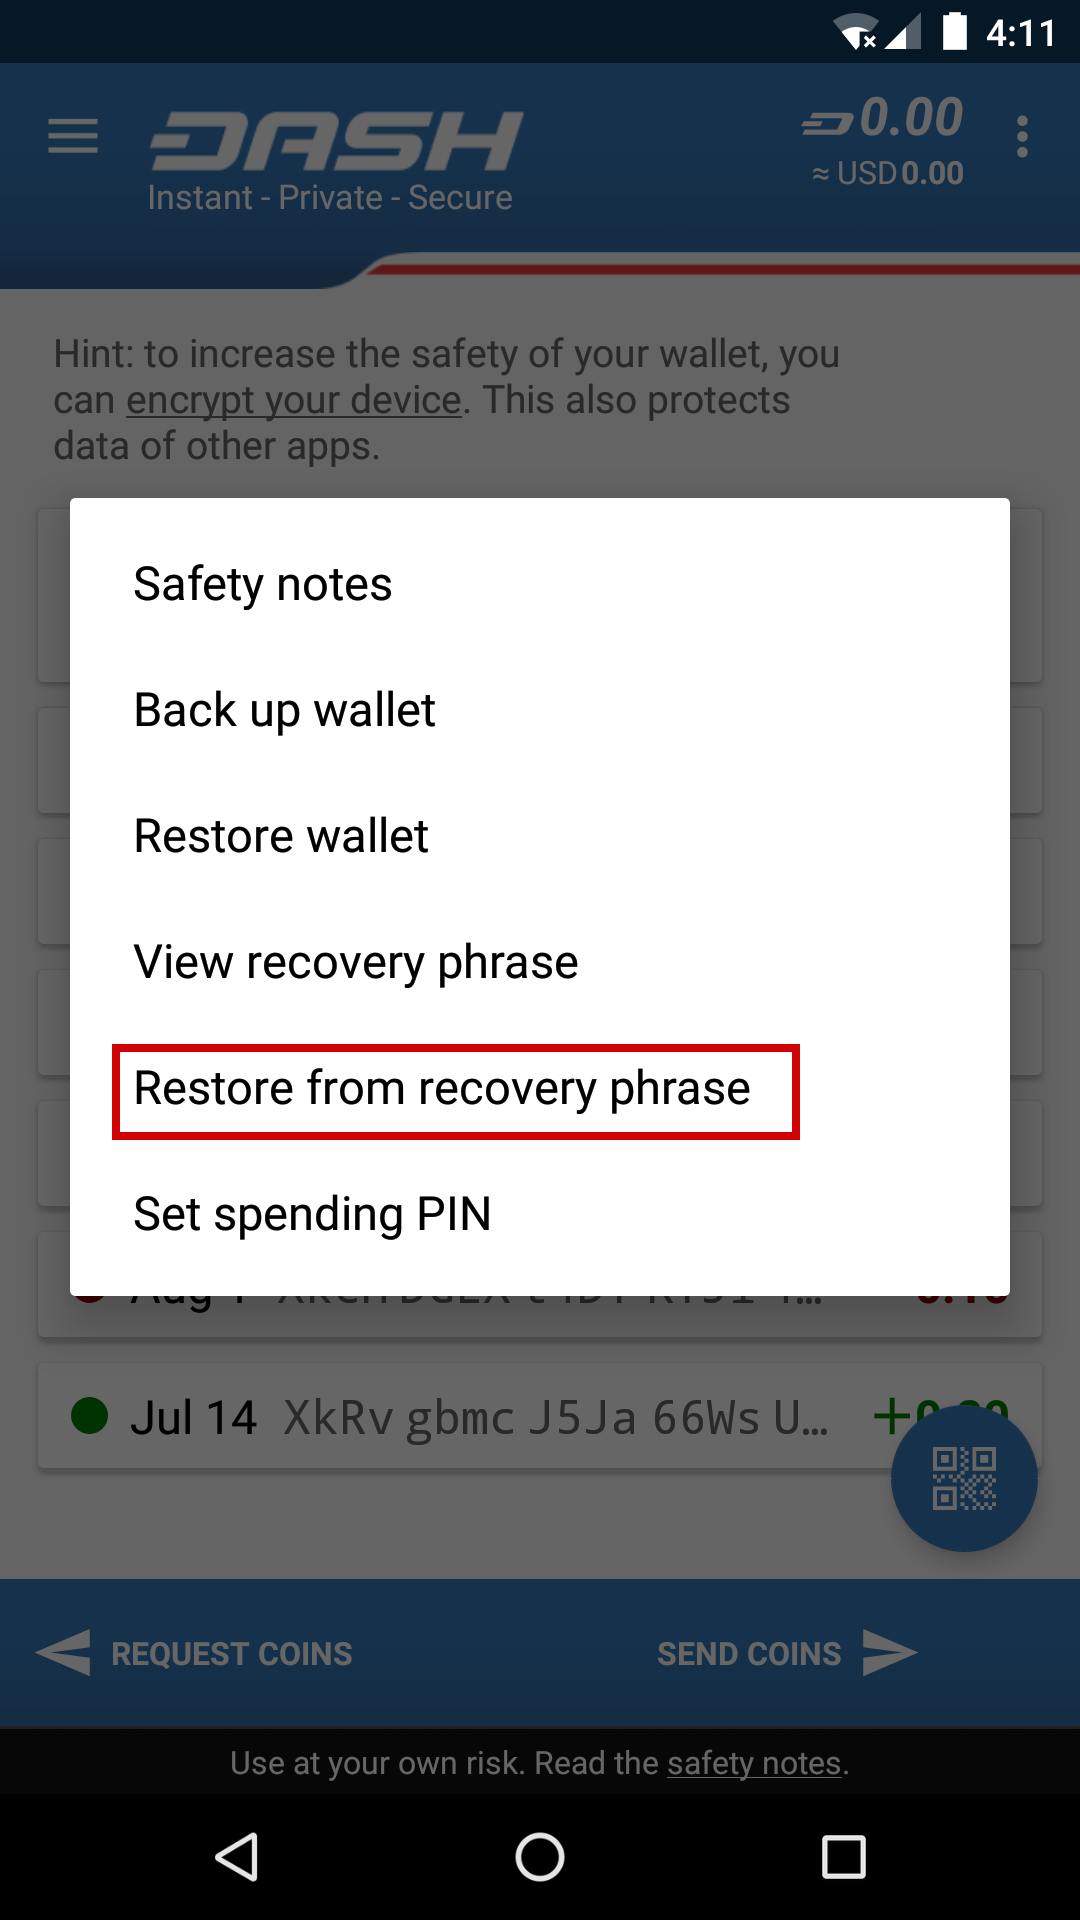
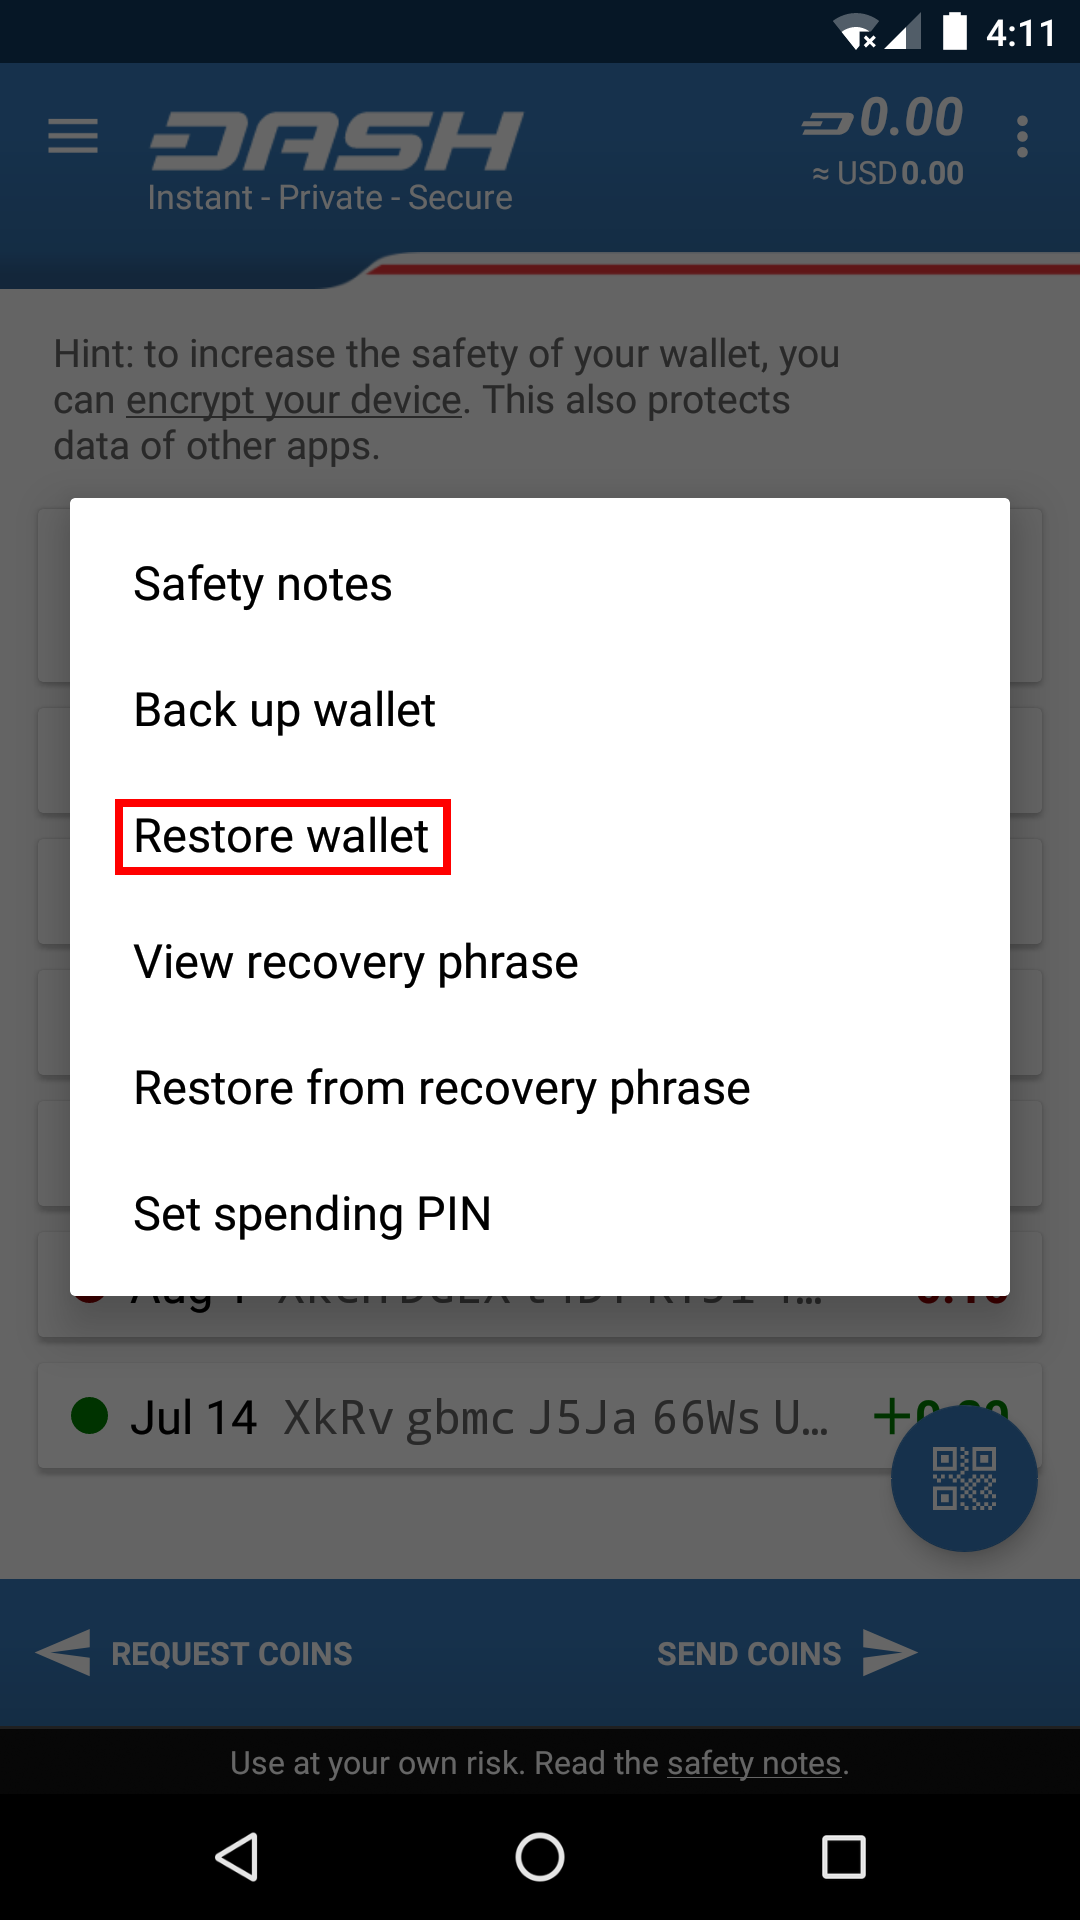
iOS recovery docs

Changed region(s): [[0.0917, 0.5312, 0.7639, 0.5938], [0.0917, 0.4062, 0.4278, 0.4688]]

diff --git a/wallets/recovery.rst b/wallets/recovery.rst
@@ -45,6 +45,10 @@ to restore your wallet in order of probability.
 Once you have determined your backup format, follow the links to view
 the restore guide for that format.
 
+
+File Backups
+============
+
 .. _dashcore-restore:
 
 Dash Core
@@ -135,7 +139,7 @@ support.64/>`_, `Reddit <https://www.reddit.com/r/dashpay/>`_ or the
 <http://dashchat.org/>`_.
 
 Dash Android
-============
+------------
 
 Similar to Dash Core wallet, Dash Wallet for Android can back up your
 wallet to a file. To restore this wallet on another device, simply copy
@@ -155,9 +159,60 @@ balance will be displayed when complete.
    :width: 200px
 .. image:: img/recovery-android2.png
    :width: 200px
-.. figure:: img/recovery-android3.png
+.. image:: img/recovery-android3.png
    :width: 200px
 
-   Restoring a file backup using Dash Wallet for Android
+*Restoring a file backup using Dash Wallet for Android*
 
+Recovery Phrases
+================
 
+If you have a 12-word phrase and feel certain your backup was made on an
+iOS or Android mobile device, follow these instructions.
+
+12-word phrase on Android
+-------------------------
+
+Ensure your Dash wallet is fully updated in the Play Store, then open
+Dash. If you have an existing balance, either make another backup or
+transfer it to an external address, because restoring a wallet will
+replace your existing wallet! Click the menu button in the top left
+corner, select **Safety > Restore from recovery phrase** and enter your
+12-word phrase.
+
+.. image:: img/recovery-android1.png
+   :width: 200px
+.. image:: img/recovery-android4.png
+   :width: 200px
+.. image:: img/recovery-android5.png
+   :width: 200px
+
+*Restoring a 12-word recovery phrase using Dash wallet for Android*
+
+12-word phrase on iOS
+---------------------
+
+Ensure your Dash wallet is fully updated in the App Store, then open
+Dash. If this is the first time you are opening the app, you can enter
+your recovery phrase directly by selecting **Recover wallet** on the
+start screen. If you have an existing balance, either make another
+backup or transfer it to an external address, because restoring a wallet
+will replace your existing wallet!
+
+Click the menu button in the top left corner, select **Settings >
+Start/recover another wallet**. Enter your current wallet recovery
+phrase, then the app will reset and you will see the option to **Recover
+wallet** again.
+
+.. image:: img/recovery-ios1.png
+   :width: 200px
+.. image:: img/recovery-ios2.png
+   :width: 200px
+.. image:: img/recovery-ios3.png
+   :width: 200px
+.. image:: img/recovery-ios4.png
+   :width: 200px
+.. image:: img/recovery-ios5.png
+   :width: 200px
+
+*Restoring a 12-word recovery phrase using Dash wallet for iOS*
